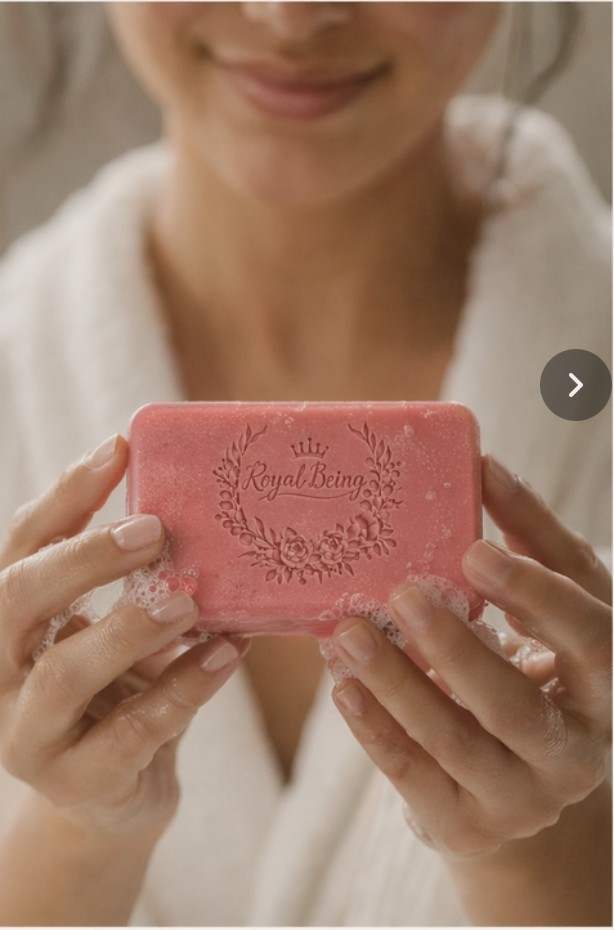
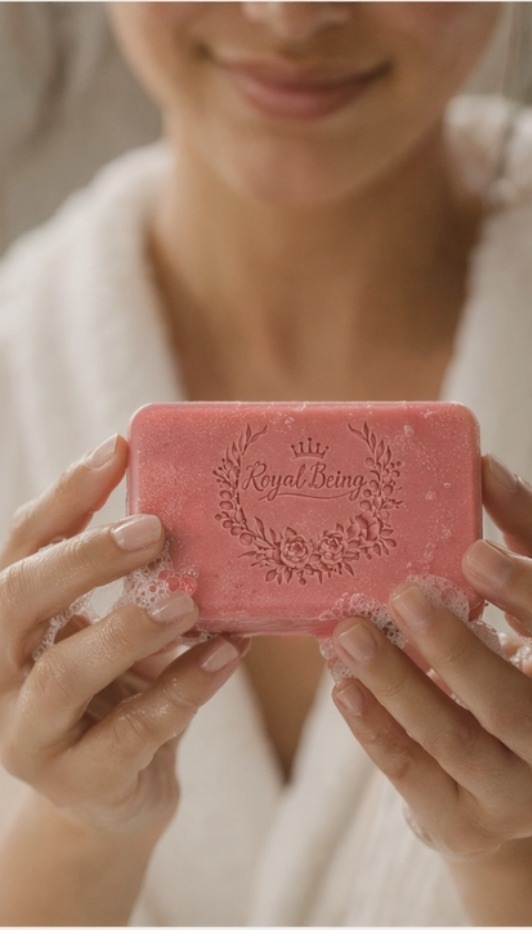
Crop the leftover carousel arrow out of the ritual lifestyle photo.

diff --git a/assets/rb-main.css b/assets/rb-main.css
@@ -2119,7 +2119,7 @@ body.grev-lock{overflow:hidden}
   border-radius:var(--radius-lg);
   overflow:hidden;
   background:transparent;
-  aspect-ratio:614/930;
+  aspect-ratio:532/930;
   width:100%;
 }
 .robeing-section--queen .robeing-media{
